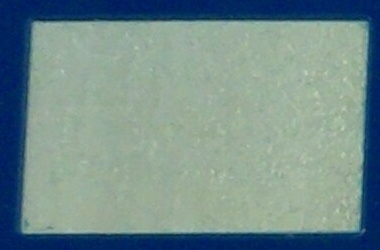
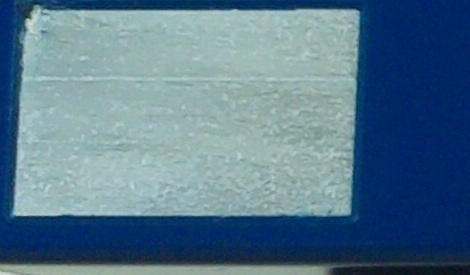
Meilenstein: Vollständiger Analyse-Workflow (Gate 1 & 2) in einem Skript implementiert und kalibriert, Blau erkennung

diff --git a/test_analyzer_roi.py b/test_analyzer_roi.py
@@ -1,88 +1,100 @@
-
+# test_analyzer_roi.py (Version mit Gate 1 UND Gate 2)
 import cv2
 import numpy as np
 import os
 
-# ===== KONFIGURATION (Diese Werte musst du anpassen!) =====
-
-# --- NEU: GIB HIER DEINE GEMESSENEN ROI-KOORDINATEN EIN ---
-ROI_Y_START = 1225 # wert: Obere Kante
-ROI_Y_END = 1475  # wert: Untere Kante
-ROI_X_START = 270  # wert: Linke Kante
-ROI_X_END = 650  # wert: Rechte Kante
+# ===== KONFIGURATION (Deine kalibrierten Werte!) =====
+# --- ROI ---
+ROI_Y_START = 1225 # Dein Wert
+ROI_Y_END = 1500 # Dein Wert
+ROI_X_START = 180 # Dein Wert
+ROI_X_END = 650   # Dein Wert
 
 # --- GEOMETRIE-PRÜFUNG ---
-# Nimm die Werte, die du mit dem hsv_calibrator gefunden hast
-LOWER_SILVER = np.array([0, 0, 127])
-UPPER_SILVER = np.array([114, 103, 255])
+LOWER_SILVER = np.array([0, 0, 127]) # Dein kalibrierter Wert
+UPPER_SILVER = np.array([114, 103, 255]) # Dein kalibrierter Wert
+MIN_FLAECHE_CUTOUT = 63000
+MAX_FLAECHE_CUTOUT = 77500
+ERWARTETE_X_POS_ROI = 194 # Dein kalibrierter Wert
+ERWARTETE_Y_POS_ROI = 126 # Dein kalibrierter Wert
+POS_TOLERANZ = 30
 
+# --- SAUBERKEITS-PRÜFUNG ---
+# WICHTIG: Diese Werte musst du jetzt mit dem hsv_calibrator.py kalibrieren!
+LOWER_BLUE = np.array([80, 37, 45])
+UPPER_BLUE = np.array([130, 190, 153])
+ANTEIL_BLAU_FUER_IO = 0.01 # Weniger als 1% blaue Pixel = I.O.
 
-# Toleranzen für die Geometrie (Werte nach Kalibrierung eintragen)
-MIN_FLAECHE_CUTOUT = 63000  # mein berechneter Mindestwert
-MAX_FLAECHE_CUTOUT = 77500 # mein berechneter Maximalwert
-
-# NEU: Toleranzen für die Position des Mittelpunkts (relativ zum ROI)
-ERWARTETE_X_POS_ROI = 194   # Beispiel: Mittelpunkt sollte bei X=150 IM ROI liegen
-ERWARTETE_Y_POS_ROI = 126    # Beispiel: Mittelpunkt sollte bei Y=50 IM ROI liegen
-POS_TOLERANZ = 25           # +/- 25 Pixel Toleranz in X- und Y-Richtung
 # ====================================================================
 
-test_image_path = "Image/image_20250918_101441.jpg" # Passe den Pfad an
+test_image_path = "Image/image_20250917_101430.jpg" # Ändere den Pfad!
 
-# --- Code-Beginn ---
-
+# --- Code-Beginn (bleibt fast gleich) ---
 image = cv2.imread(test_image_path)
-if image is None:
-    print(f"FEHLER: Bild konnte nicht geladen werden unter {test_image_path}")
-    exit()
-
-print(f"INFO: Dein Bild hat die Größe (Höhe, Breite): ({image.shape[0]}, {image.shape[1]})")    
-
-# ===== SCHRITT 1: BILD AUF ROI ZUSCHNEIDEN =====
-# erstelung eine saubere Kopie des ROI für die Analyse
+# ... (ROI zuschneiden, etc. ... bleibt gleich) ...
 roi = image[ROI_Y_START:ROI_Y_END, ROI_X_START:ROI_X_END].copy()
-if roi.size == 0:
-    print(f"FEHLER: ROI ist leer. Überprüfe die ROI-Koordinaten!")
-    exit()
-
-# erstelung eine weitere Kopie nur für die Anzeige, auf der wir malen können
 output_roi = roi.copy()
 hsv_roi = cv2.cvtColor(roi, cv2.COLOR_BGR2HSV)
 
-# ===== SCHRITT 2: ANALYSE NUR INNERHALB DES ROI =====
-print("--- Starte Geometrie-Prüfung innerhalb des ROI ---")
+
+# --- Geometrie-Prüfung (bleibt gleich) ---
 silver_mask = cv2.inRange(hsv_roi, LOWER_SILVER, UPPER_SILVER)
 contours, _ = cv2.findContours(silver_mask, cv2.RETR_EXTERNAL, cv2.CHAIN_APPROX_SIMPLE)
 
-if not contours:
-    print("-> Ergebnis: Kein silberner Cut-Out im ROI gefunden.")
-else:
+final_status = "nio"
+final_mask_to_save = silver_mask # Standardmäßig die Silber-Maske speichern
+
+if contours:
     cutout_contour = max(contours, key=cv2.contourArea)
     flaeche = cv2.contourArea(cutout_contour)
     M = cv2.moments(cutout_contour)
-    # Berechne den Mittelpunkt (cX, cY) der Kontur
     cX = int(M["m10"] / M["m00"]) if M["m00"] != 0 else 0
     cY = int(M["m01"] / M["m00"]) if M["m00"] != 0 else 0
     
-    # Zeichne die gefundene Kontur (grün) und den Mittelpunkt (rot)
-    cv2.drawContours(output_roi, [cutout_contour], -1, (0, 255, 0), 2)
-    cv2.circle(output_roi, (cX, cY), 7, (0, 0, 255), -1)
-    print(f"-> Messung im ROI: Fläche={flaeche}, Mittelpunkt=(X:{cX}, Y:{cY})")
- 
-  # --- NEU: PRÜFUNG VON FLÄCHE UND POSITION ---
     flaeche_ok = MIN_FLAECHE_CUTOUT < flaeche < MAX_FLAECHE_CUTOUT
-    x_pos_ok = abs(cX - ERWARTETE_X_POS_ROI) <= POS_TOLERANZ
-    y_pos_ok = abs(cY - ERWARTETE_Y_POS_ROI) <= POS_TOLERANZ
-    
-    if not flaeche_ok:
-        print(f"-> Ergebnis: Fläche ({flaeche}) ist außerhalb der Toleranz. STATUS: N.I.O.")
-    elif not x_pos_ok or not y_pos_ok:
-        print(f"-> Ergebnis: Position (X:{cX}, Y:{cY}) ist außerhalb der Toleranz. STATUS: N.I.O.")
-    else:
-        print("✅ Geometrie bestanden.")
-        # ... hier würde dann die Sauberkeitsprüfung folgen ...
+    pos_ok = abs(cX - ERWARTETE_X_POS_ROI) <= POS_TOLERANZ and abs(cY - ERWARTETE_Y_POS_ROI) <= POS_TOLERANZ
 
-# ===== SCHRITT 3: VISUALISIERUNG DER ERGEBNISSE =====
+    if flaeche_ok and pos_ok:
+        print("✅ Geometrie bestanden. Starte Gate 2: Sauberkeits-Prüfung...")
+        
+        # ===== HIER KOMMT DIE NEUE LOGIK FÜR GATE 2 =====
+        cutout_mask = np.zeros_like(silver_mask)
+        cv2.drawContours(cutout_mask, [cutout_contour], -1, 255, thickness=cv2.FILLED)
+       
+        
+        blue_mask = cv2.inRange(hsv_roi, LOWER_BLUE, UPPER_BLUE)
+        blaue_reste_maske = cv2.bitwise_and(blue_mask, blue_mask, mask=cutout_mask)
+        
+        blauer_anteil = np.sum(blaue_reste_maske > 0) / flaeche
+        
+        print(f"-> Messung Sauberkeit: Blauer Anteil = {blauer_anteil:.3%}")
+        
+        if blauer_anteil < ANTEIL_BLAU_FUER_IO:
+            print("-> Ergebnis Sauberkeit: Cut-Out ist sauber.")
+            final_status = "io"
+        else:
+            print("-> Ergebnis Sauberkeit: Blaue Reste gefunden.")
+            final_status = "Blauanteil"
+            
+        final_mask_to_save = blaue_reste_maske # Wir wollen die blauen Reste im Ergebnisbild sehen
+    else:
+        print("❌ Geometrie-Prüfung fehlgeschlagen. STATUS: N.I.O.")
+        # final_status bleibt 'nio'
+else:
+    print("❌ Geometrie-Prüfung fehlgeschlagen: Kein Cut-Out gefunden. STATUS: N.I.O.")
+    # final_status bleibt 'nio'
+
+# --- Finale Ausgabe und Speichern ---
+print(f"\n--- ENDGÜLTIGER STATUS: {final_status.upper()} ---")
+
+  # Zeichne die gefundene Kontur (grün) und den Mittelpunkt (rot)
+cv2.drawContours(output_roi, [cutout_contour], -1, (0, 255, 0), 2)
+cv2.circle(output_roi, (cX, cY), 7, (0, 0, 255), -1)
+
+output_folder = "analyse_ergebnisse"
+os.makedirs(output_folder, exist_ok=True)
+cv2.imwrite(os.path.join(output_folder, f"ergebnis_{final_status}.jpg"), final_mask_to_save)
+print(f"Ergebnisbild wurde in '{output_folder}' gespeichert.")
 
 # --- NEUE VISUALISIERUNG: BILDER SPEICHERN ---
 print("\n--- Speichere Analyse-Bilder ---")
@@ -92,7 +104,7 @@ os.makedirs(output_folder, exist_ok=True)
 # Speichere die wichtigen Analyse-Schritte als Bilder
 cv2.imwrite(os.path.join(output_folder, "1_roi_ausschnitt.jpg"), roi)
 cv2.imwrite(os.path.join(output_folder, "2_silber_erkennung_maske.jpg"), silver_mask)
-cv2.imwrite(os.path.join(output_folder, "3_gefundene_kontur_mit_mittelpunkt.jpg"), output_roi) 
+cv2.imwrite(os.path.join(output_folder, "3_gefundene_kontur_mit_mittelpunkt.jpg"),output_roi)
 
 
 print(f"Ergebnisbilder wurden im Ordner '{output_folder}' gespeichert.")

diff --git a/test_analyzer_roi2.py b/test_analyzer_roi2.py
@@ -6,30 +6,30 @@ import os
 # ===== KONFIGURATION (Diese Werte musst du anpassen!) =====
 
 # --- ROI (Region of Interest) ---
-ROI_Y_START = 450
-ROI_Y_END = 550
-ROI_X_START = 850
-ROI_X_END = 1150
+ROI_Y_START = 1225
+ROI_Y_END = 1475
+ROI_X_START = 270
+ROI_X_END = 650
 
 # --- GEOMETRIE-PRÜFUNG ---
 # Deine kalibrierten Werte aus dem hsv_calibrator.py
-LOWER_SILVER = np.array([0, 0, 150])
-UPPER_SILVER = np.array([180, 50, 255])
+LOWER_SILVER = np.array([0, 0, 127])
+UPPER_SILVER = np.array([114, 103, 255])
 
 # Toleranzen für die Geometrie (Werte nach Kalibrierung eintragen)
-MIN_FLAECHE_CUTOUT = 770000  # Dein berechneter Mindestwert
-MAX_FLAECHE_CUTOUT = 945000  # Dein berechneter Maximalwert
+MIN_FLAECHE_CUTOUT = 63000  # Dein berechneter Mindestwert
+MAX_FLAECHE_CUTOUT = 77500  # Dein berechneter Maximalwert
 
 # NEU: Toleranzen für die Position des Mittelpunkts (relativ zum ROI)
-ERWARTETE_X_POS_ROI = 150   # Beispiel: Mittelpunkt sollte bei X=150 IM ROI liegen
-ERWARTETE_Y_POS_ROI = 50    # Beispiel: Mittelpunkt sollte bei Y=50 IM ROI liegen
+ERWARTETE_X_POS_ROI = 194  # Beispiel: Mittelpunkt sollte bei X=150 IM ROI liegen
+ERWARTETE_Y_POS_ROI = 126     # Beispiel: Mittelpunkt sollte bei Y=50 IM ROI liegen
 POS_TOLERANZ = 25           # +/- 25 Pixel Toleranz in X- und Y-Richtung
 
 # ... (Rest der Konfiguration für Sauberkeit bleibt gleich) ...
 
 # ====================================================================
 
-test_image_path = "Image/image_20250918_101441.jpg" # Passe den Pfad an
+test_image_path = "Image/image_20250918_100923.jpg" # Passe den Pfad an
 
 # --- Code-Beginn ---
 

diff --git a/hsv_calibrator.py b/hsv_calibrator.py
@@ -4,7 +4,7 @@ import numpy as np
 # --- KONFIGURATION ---
 # Gib hier den Pfad zu einem guten Testbild an, auf dem der silberne
 # Cut-Out klar zu sehen ist.
-IMAGE_PATH = "IO_Pictures/image_2025-08-12_11-04-51.jpg" 
+IMAGE_PATH = "Image/image_20250918_101327.jpg"
 # =====================
 
 def nothing(x):
